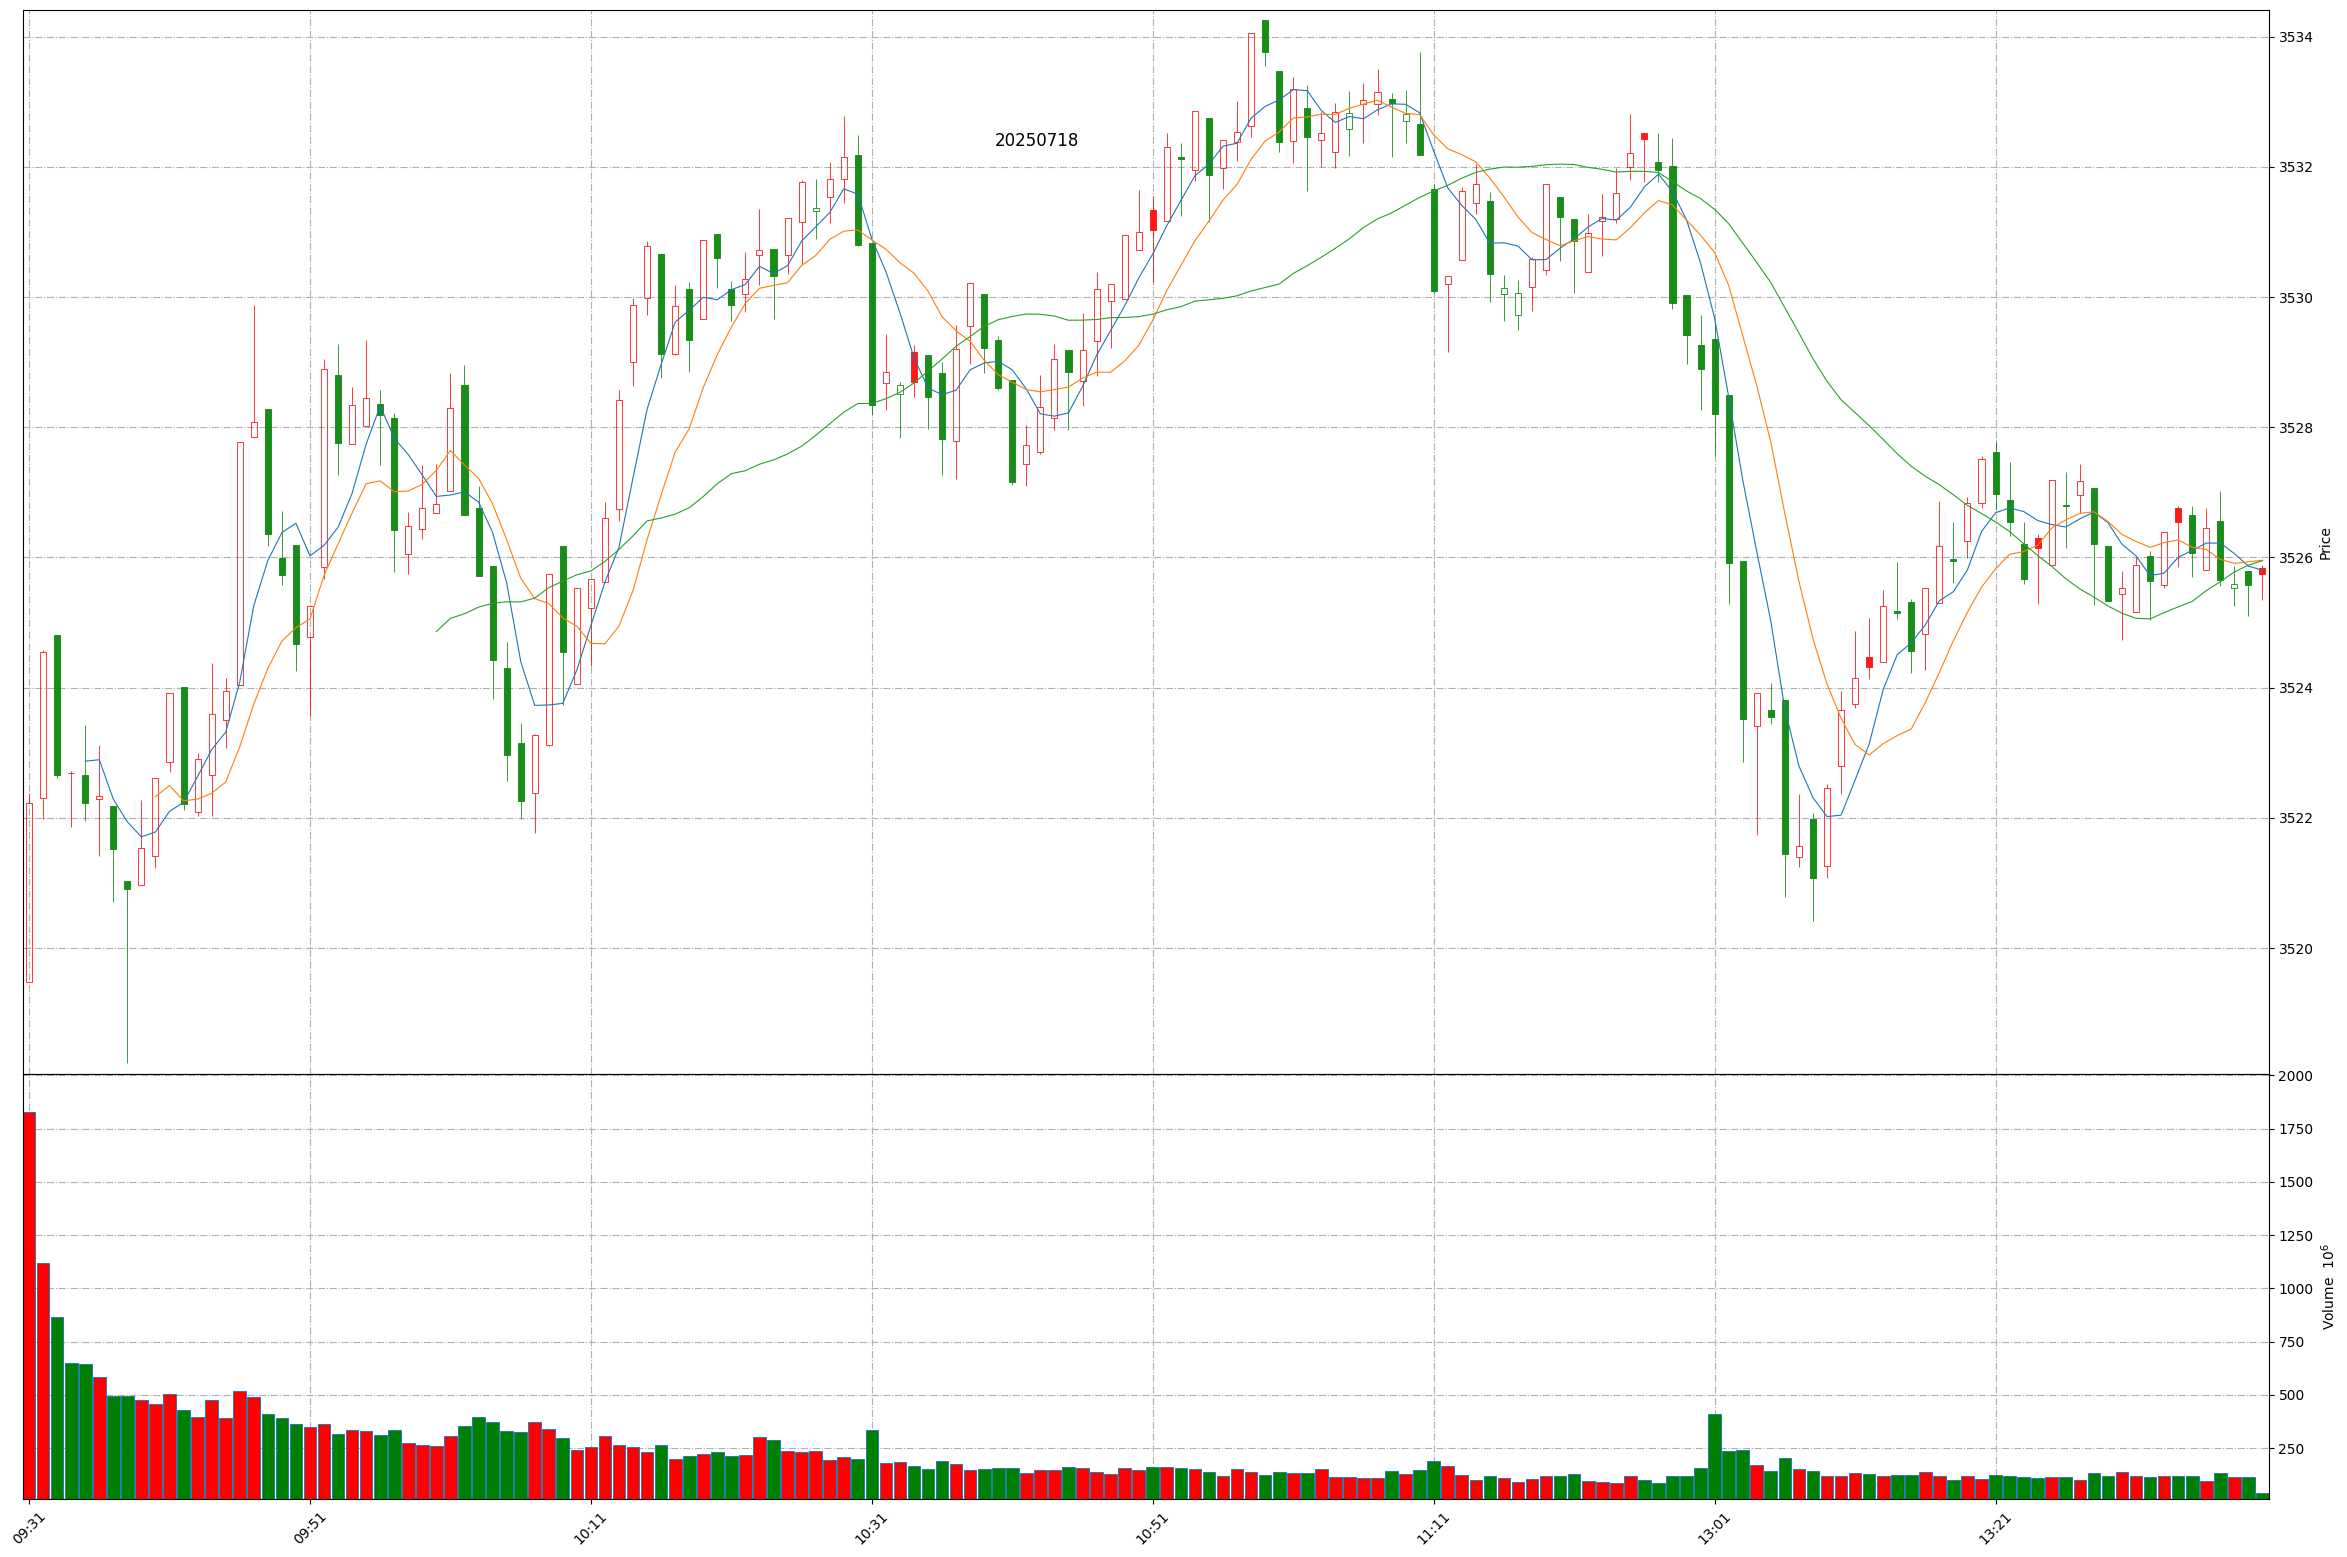
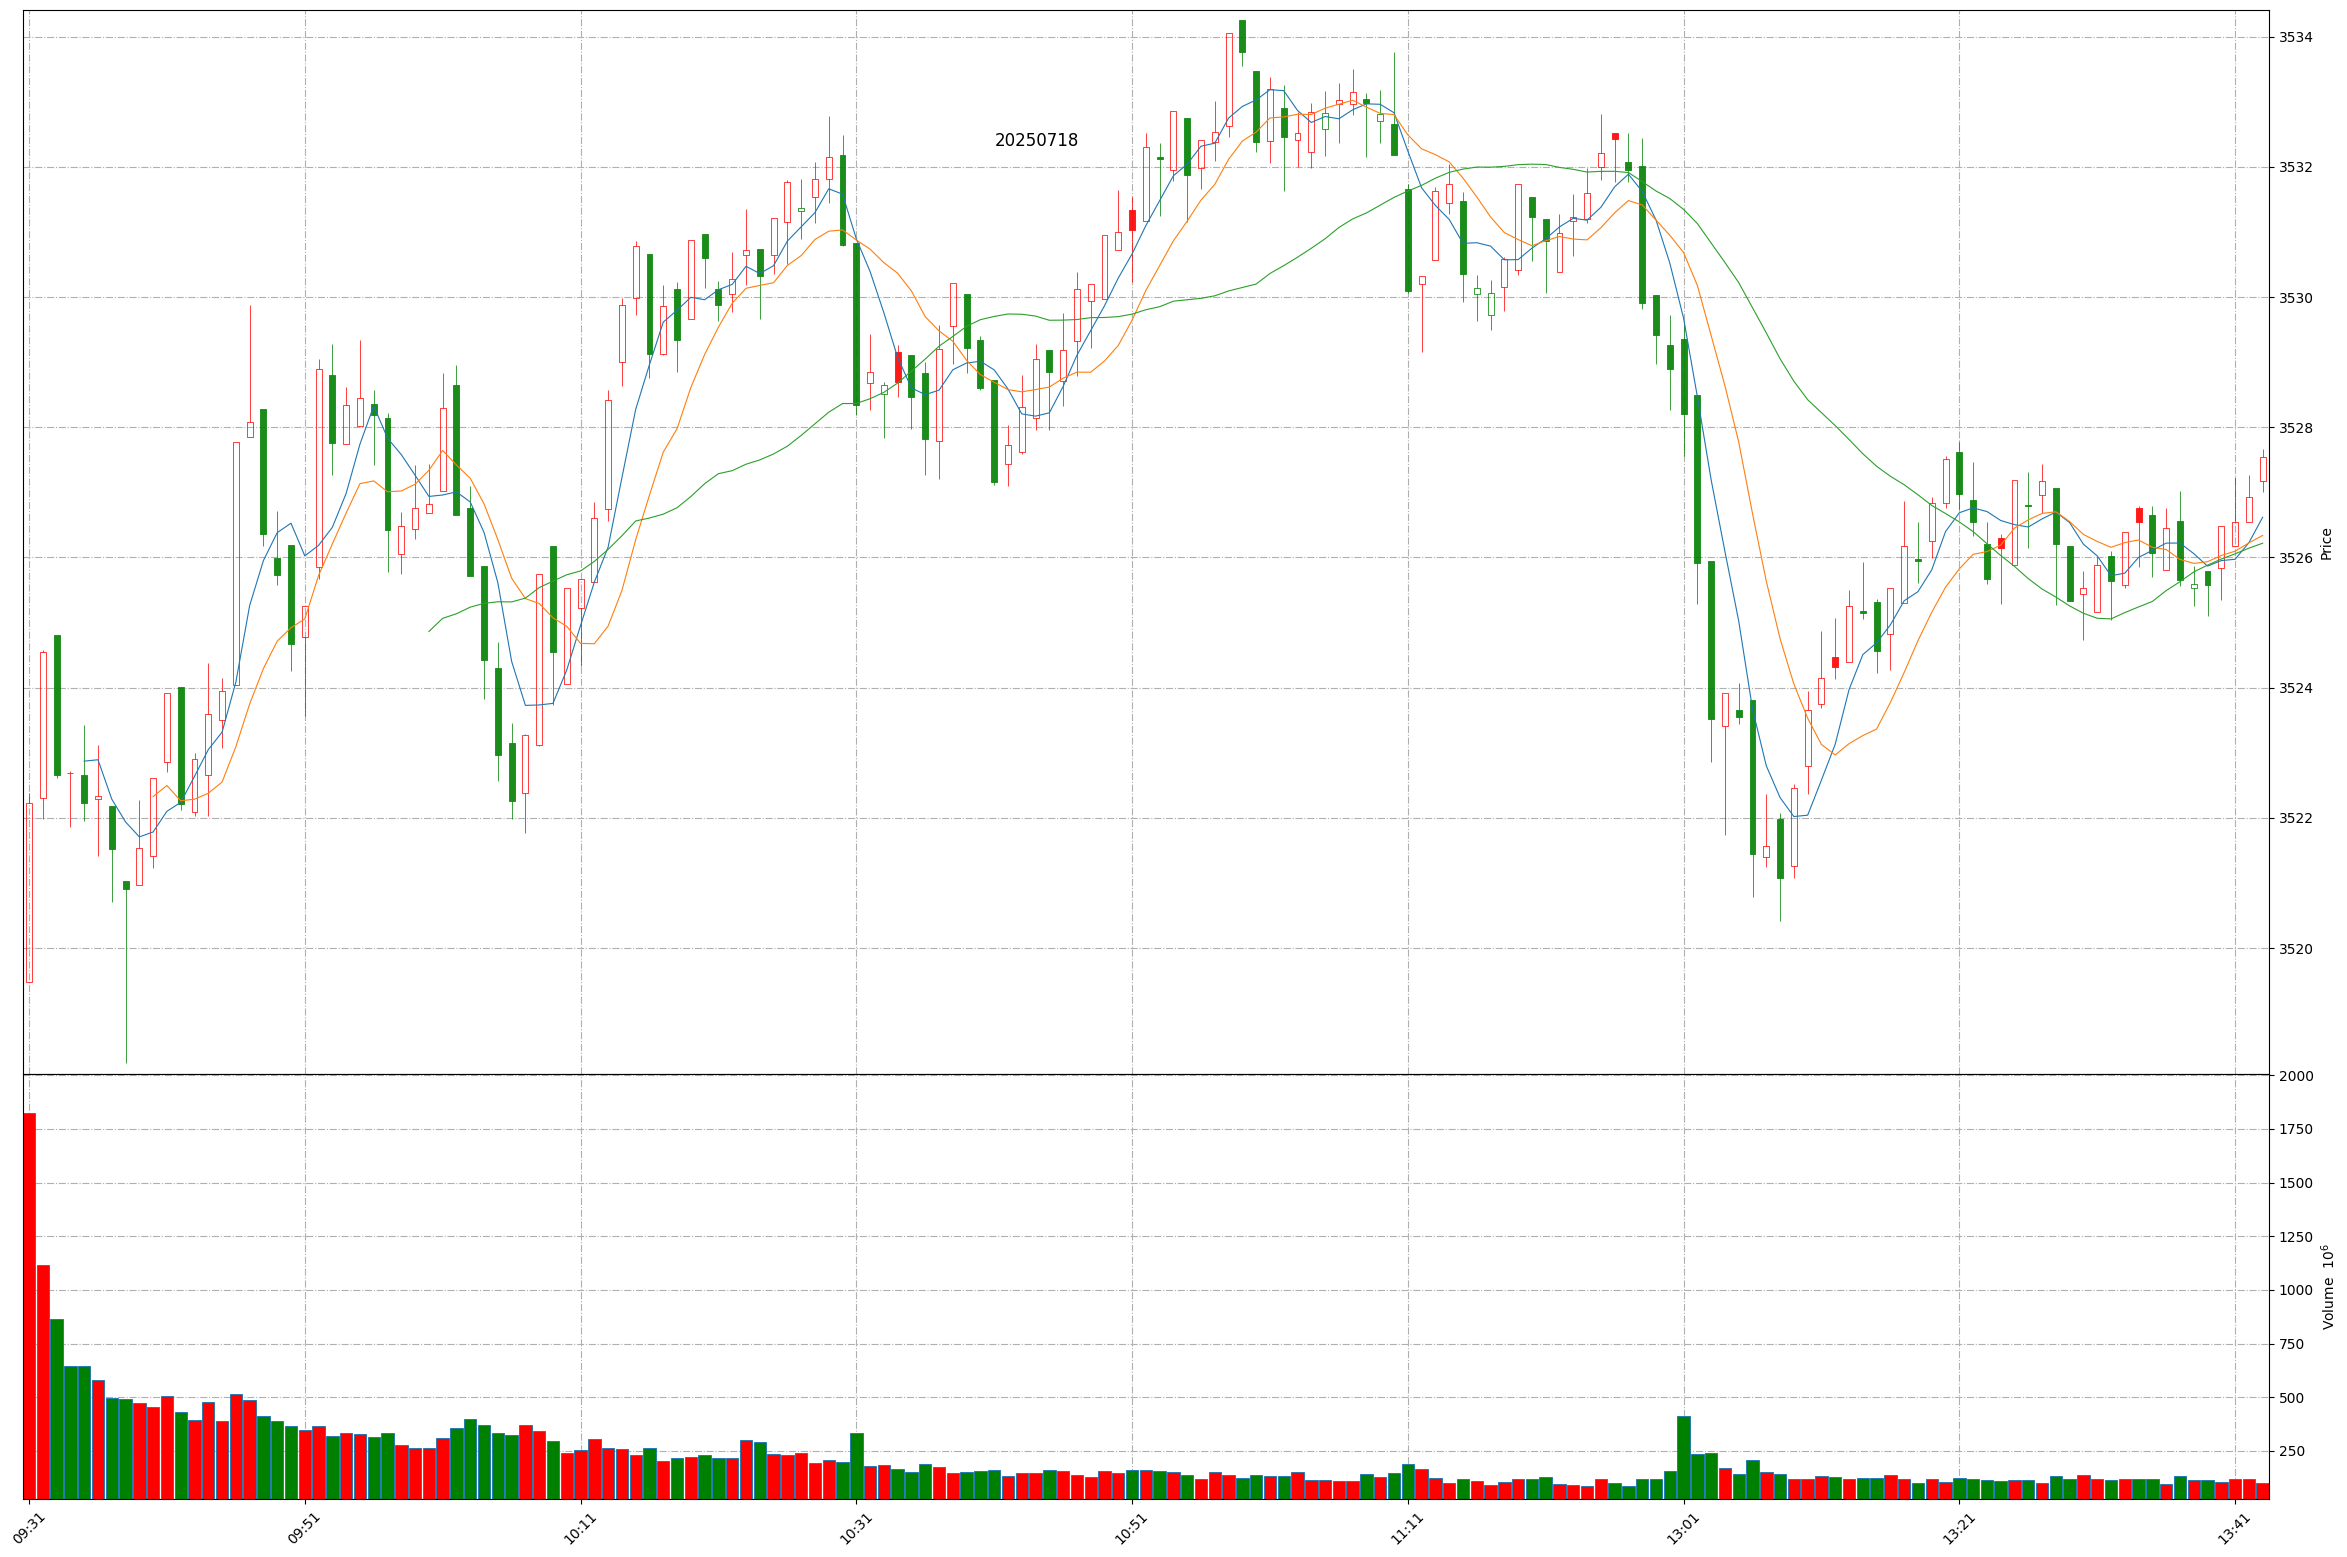
Github action update at 2025-07-18 13:43:15.

Changed region(s): [[0.0311, 0.0, 0.9642, 0.5857], [0.0311, 0.894, 0.9642, 0.9865]]

diff --git a/README.md b/README.md
@@ -1,11 +1,11 @@
 
 # Daily-A-share-market-quotes 每日 A 股指数（5min 更新）- 20250718
 
-### 上证指数 20250718 13:39
+### 上证指数 20250718 13:43
 ![](./fig/2025/7/20250718-sh000001.png)
 
-### 深证成指 20250718 13:39
+### 深证成指 20250718 13:43
 ![](./fig/2025/7/20250718-sz399001.png)
 
-### 北证50 20250718 13:39
+### 北证50 20250718 13:43
 ![](./fig/2025/7/20250718-bj899050.png)
